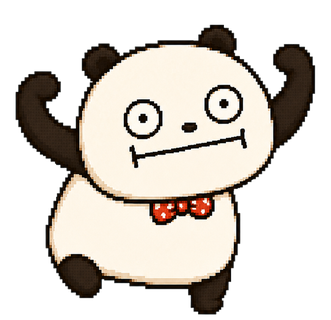
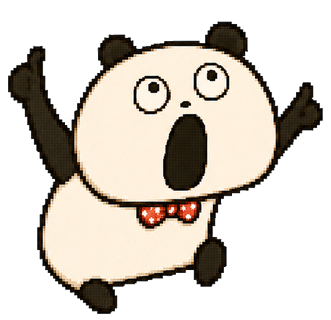
店長姿勢微調：shock/no 領結綠→紅＋welcome 換 cheer 同源圖重出
HSV 色相替換保留階層/高光/描邊；welcome 原圖表情呆滯，codex 評 16 張後改與 cheer 共用來源（雙手舉起大喊）、補去字重出。no 映射評估後維持現況（16 張裡最貼「擔心」）。映射表同步 §0.6。

Changed region(s): [[0.0, 0.0625, 0.997, 1.0]]

diff --git a/scripts/gen-welcome-delettered.py b/scripts/gen-welcome-delettered.py
@@ -1,0 +1,128 @@
+#!/usr/bin/env python3
+"""重出帶字的來源貼圖（例：61ab2ca4「もんもんもん」）→ 去字版 slug png。
+
+背景：fix-shopkeeper-pose.py 只做「邊界 flood-fill 去背 + 身高正規化」，
+沒有「去字」步驟。當初 cheer/think/love 那 3 張帶字來源圖產出時多做了
+一步「連通元件去字」（只留 ≥最大塊12% 大小的連通塊，字通常是很多小塊、
+遠小於熊貓本體，會被濾掉；熊貓本體是最大塊、一定保留）。這支腳本補回
+那個去字步驟，其餘（去背/置中/著地）邏輯照抄 fix-shopkeeper-pose.py。
+
+用法：
+  python3 scripts/gen-welcome-delettered.py <來源png> <輸出png> \
+      [--canvas 331x320] [--bottom-y 314] [--margin 8] [--tol 60] [--keep-ratio 0.12]
+"""
+import argparse
+from collections import deque
+
+import numpy as np
+from PIL import Image
+from scipy import ndimage
+
+
+def flood_fill_bg(img: Image.Image, tol: float) -> Image.Image:
+    im = img.convert('RGBA')
+    arr = np.array(im).astype(np.int32)
+    h, w = arr.shape[0], arr.shape[1]
+    rgb = arr[:, :, :3]
+
+    border_px = np.concatenate([
+        rgb[0, :, :], rgb[-1, :, :], rgb[:, 0, :], rgb[:, -1, :],
+    ])
+    bg = border_px.mean(axis=0)
+
+    dist = np.sqrt(((rgb - bg) ** 2).sum(axis=2))
+    is_bg_candidate = dist < tol
+
+    visited = np.zeros((h, w), dtype=bool)
+    q = deque()
+
+    def seed(y, x):
+        if is_bg_candidate[y, x] and not visited[y, x]:
+            visited[y, x] = True
+            q.append((y, x))
+
+    for x in range(w):
+        seed(0, x)
+        seed(h - 1, x)
+    for y in range(h):
+        seed(y, 0)
+        seed(y, w - 1)
+
+    while q:
+        y, x = q.popleft()
+        for ny, nx in ((y + 1, x), (y - 1, x), (y, x + 1), (y, x - 1)):
+            if 0 <= ny < h and 0 <= nx < w and not visited[ny, nx] and is_bg_candidate[ny, nx]:
+                visited[ny, nx] = True
+                q.append((ny, nx))
+
+    out = arr.copy()
+    out[visited, 3] = 0
+    return Image.fromarray(out.astype(np.uint8), 'RGBA')
+
+
+def remove_text_blobs(im: Image.Image, keep_ratio: float) -> Image.Image:
+    """去掉字：連通元件分析，只留 >= 最大塊 keep_ratio 大小的塊（熊貓本體必是最大塊）。"""
+    arr = np.array(im.convert('RGBA'))
+    mask = arr[:, :, 3] > 10
+    labels, n = ndimage.label(mask, structure=np.ones((3, 3)))
+    if n == 0:
+        return im
+    sizes = ndimage.sum(mask, labels, index=range(1, n + 1))
+    max_size = sizes.max()
+    keep_labels = [i + 1 for i, s in enumerate(sizes) if s >= max_size * keep_ratio]
+    keep_mask = np.isin(labels, keep_labels)
+    out = arr.copy()
+    out[~keep_mask, 3] = 0
+    removed = n - len(keep_labels)
+    print(f'去字：{n} 個連通塊，留下 {len(keep_labels)} 個（濾掉 {removed} 個小塊，門檻={max_size * keep_ratio:.0f}px）')
+    return Image.fromarray(out.astype(np.uint8), 'RGBA')
+
+
+def normalize_to_canvas(im: Image.Image, canvas_w: int, canvas_h: int,
+                         bottom_y: int, margin: int) -> Image.Image:
+    bbox = im.getbbox()
+    if bbox is None:
+        raise ValueError('去背後沒有任何不透明像素，來源圖或 tol 有問題')
+    cropped = im.crop(bbox)
+    src_w, src_h = cropped.size
+
+    max_w = canvas_w - 2 * margin
+    max_h = bottom_y - margin
+    scale = min(max_w / src_w, max_h / src_h)
+    new_w = max(1, round(src_w * scale))
+    new_h = max(1, round(src_h * scale))
+
+    resized = cropped.resize((new_w, new_h), Image.LANCZOS)
+
+    canvas = Image.new('RGBA', (canvas_w, canvas_h), (0, 0, 0, 0))
+    paste_x = (canvas_w - new_w) // 2
+    paste_y = bottom_y - new_h
+    assert paste_x >= 0
+    assert paste_x + new_w <= canvas_w
+    assert paste_y >= 0
+    canvas.paste(resized, (paste_x, paste_y), resized)
+    return canvas
+
+
+def main():
+    ap = argparse.ArgumentParser()
+    ap.add_argument('src')
+    ap.add_argument('dst')
+    ap.add_argument('--canvas', default='331x320')
+    ap.add_argument('--bottom-y', type=int, default=314)
+    ap.add_argument('--margin', type=int, default=8)
+    ap.add_argument('--tol', type=float, default=60.0)
+    ap.add_argument('--keep-ratio', type=float, default=0.12)
+    args = ap.parse_args()
+
+    canvas_w, canvas_h = (int(v) for v in args.canvas.split('x'))
+    src_im = Image.open(args.src)
+    cutout = flood_fill_bg(src_im, args.tol)
+    delettered = remove_text_blobs(cutout, args.keep_ratio)
+    result = normalize_to_canvas(delettered, canvas_w, canvas_h, args.bottom_y, args.margin)
+    result.save(args.dst)
+    print(f'寫出 {args.dst}, size={result.size}')
+
+
+if __name__ == '__main__':
+    main()

diff --git a/scripts/recolor-bowtie-green-to-red.py b/scripts/recolor-bowtie-green-to-red.py
@@ -1,0 +1,61 @@
+#!/usr/bin/env python3
+"""把店長熊貓圖片裡的綠色領結換成跟其他姿勢一致的紅色。
+
+只動「綠色系」像素（色相落在綠色範圍、且有一定飽和度），
+保留每個像素原本的飽和度(S)與明度(V)——這樣領結原本的
+2-3 階陰影＋白色高光＋黑色描邊都會自然保留，只是色相被
+換成跟其他姿勢紅領結一致的暖紅。
+
+用法：
+  python3 scripts/recolor-bowtie-green-to-red.py <輸入png> <輸出png> \
+      [--hue-min 70] [--hue-max 170] [--sat-min 0.15] [--target-hue 8]
+"""
+import argparse
+import colorsys
+
+import numpy as np
+from PIL import Image
+
+
+def recolor(src_path, dst_path, hue_min, hue_max, sat_min, target_hue):
+    im = Image.open(src_path).convert('RGBA')
+    arr = np.array(im).astype(np.float64)
+    r, g, b, a = arr[:, :, 0] / 255, arr[:, :, 1] / 255, arr[:, :, 2] / 255, arr[:, :, 3]
+
+    h, w = r.shape
+    out = arr.copy()
+    changed = 0
+    target_h = target_hue / 360.0
+
+    for y in range(h):
+        for x in range(w):
+            if a[y, x] == 0:
+                continue
+            hh, ss, vv = colorsys.rgb_to_hsv(r[y, x], g[y, x], b[y, x])
+            deg = hh * 360
+            if hue_min <= deg <= hue_max and ss >= sat_min:
+                nr, ng, nb = colorsys.hsv_to_rgb(target_h, ss, vv)
+                out[y, x, 0] = round(nr * 255)
+                out[y, x, 1] = round(ng * 255)
+                out[y, x, 2] = round(nb * 255)
+                changed += 1
+
+    print(f'{src_path}: 換掉 {changed} 個綠色系像素 -> 目標色相 {target_hue}度')
+    result = Image.fromarray(out.astype(np.uint8), 'RGBA')
+    result.save(dst_path)
+
+
+def main():
+    ap = argparse.ArgumentParser()
+    ap.add_argument('src')
+    ap.add_argument('dst')
+    ap.add_argument('--hue-min', type=float, default=70.0)
+    ap.add_argument('--hue-max', type=float, default=170.0)
+    ap.add_argument('--sat-min', type=float, default=0.15)
+    ap.add_argument('--target-hue', type=float, default=8.0)
+    args = ap.parse_args()
+    recolor(args.src, args.dst, args.hue_min, args.hue_max, args.sat_min, args.target_hue)
+
+
+if __name__ == '__main__':
+    main()

diff --git a/docs/cafe-art-handoff.md b/docs/cafe-art-handoff.md
@@ -32,7 +32,7 @@
 **這輪美術 session 做掉的（都 commit 了，美術快照最新 `3b4aa79`）：**
 - ✅ **§C-2 `public/cafe/base-fg.png`**：門＋底牆前景層（景深）。576×416 對齊 base，門+底牆帶不透明、其餘透明；引擎 `.cafe-fg` 吃它。
 - ✅ **§C「店長站吧檯裡面」（需求④）**：用**現成 `counter_front.png`**（正面板 occluder，x0-272/y118-202）＋引擎移店長到檯後（`PANDA_CX=150/PANDA_TOP=50`）＋獨立 `.cafe-counter-fg` 恆亮層＋繪製順序修正（吧檯外家具畫在吧檯之上、只有店長被擋）。⚠ **這是「沿用烤進 base 的吧檯＋occluder」做的，不是完整拆層**（完整版見下方 TODO）。
-- ✅ **店長 16 姿勢換平滑暖描邊版**：來源 `~/Desktop/新熊貓/` 16 張 LINE 貼圖風熊貓，pipeline＝**去背（邊界 flood-fill）→ 去字（保留 ≥最大塊12% 連通塊，只對 3 張有字的）→ 身高正規化（頭頂→腳底全等）→ bbox 水平置中、底部著地、四邊留白 → 出 `public/cafe/shopkeeper/<slug>.png`（331×320、engine height=96 縮放）**。映射（動作→slug）：`happy`=站姿微笑 `cat`=抱貓 `idle`=讀書 `serve`=端盤 `think`=托腮 `onion`=拿蔥 `cheer`=舉手歡呼 `eat`=捧三明治 `play`=吹泡泡 `shock`=張嘴 `no`=擔心 `statue`=閉眼發呆 `welcome`=舉手 `cozy`=**躺姿（JJ 決定保留、當「趴檯面睡」）** `love`=端咖啡 `dismay`=垂眼。⚠ 已知小點（JJ 暫不改）：`shock`/`no` 是綠領結（其餘紅）、`no`/`welcome` 映射較勉強。要換姿勢＝重跑上面 pipeline 換該 slug 對應的來源圖。
+- ✅ **店長 16 姿勢換平滑暖描邊版**：來源 `~/Desktop/新熊貓/` 16 張 LINE 貼圖風熊貓，pipeline＝**去背（邊界 flood-fill）→ 去字（保留 ≥最大塊12% 連通塊，只對 3 張有字的）→ 身高正規化（頭頂→腳底全等）→ bbox 水平置中、底部著地、四邊留白 → 出 `public/cafe/shopkeeper/<slug>.png`（331×320、engine height=96 縮放）**。映射（動作→slug）：`happy`=站姿微笑 `cat`=抱貓 `idle`=讀書 `serve`=端盤 `think`=托腮 `onion`=拿蔥 `cheer`=舉手歡呼 `eat`=捧三明治 `play`=吹泡泡 `shock`=張嘴 `no`=擔心 `statue`=閉眼發呆 `welcome`=**雙手舉起張嘴大喊（與 `cheer` 共用同一張來源圖，2026-07-09 後續美術 session 改，經 codex 判定 16 張源圖裡沒有更貼切的獨立「熱情舉手迎客」候選，兩者不會並排顯示、語意契合優先於視覺獨立）** `cozy`=**躺姿（JJ 決定保留、當「趴檯面睡」）** `love`=端咖啡 `dismay`=垂眼。✅ **2026-07-09 後續美術 session 修完**：`shock`/`no` 領結綠改紅（跟其餘 14 張一致，codex 目檢 pass）。`no` 映射經 codex 評估後維持現況（16 張裡最貼近「擔心/不安」，非最貼近「堅定拒絕」但已是最佳）。要換姿勢＝重跑上面 pipeline 換該 slug 對應的來源圖。
 - ✅ **伝言板打字區破圖修**：`board/input_field.png`＋`button_send.png` 重裁自完稿 `panel.png`（去背、塗掉重複鈕、頂端清氣泡殘影）。
 
 **協調機制（重要）**：美術→引擎需求走 **`docs/art-to-engine-requests.md`**（反向於 `engine-to-art-requests.md`）。本輪 E1（送出鈕位置）/E2（店長站裡面）/E3（吧檯繪製順序）引擎**都做完驗過**了。引擎 session＝**「Japanese site new engine」**（`local_c2ced2b1…`，用 session 管理工具 `send_message` 發）。**先給 codex review 再定案**是 JJ 的慣例（見記憶 `cafe-art-codex-review`）。
